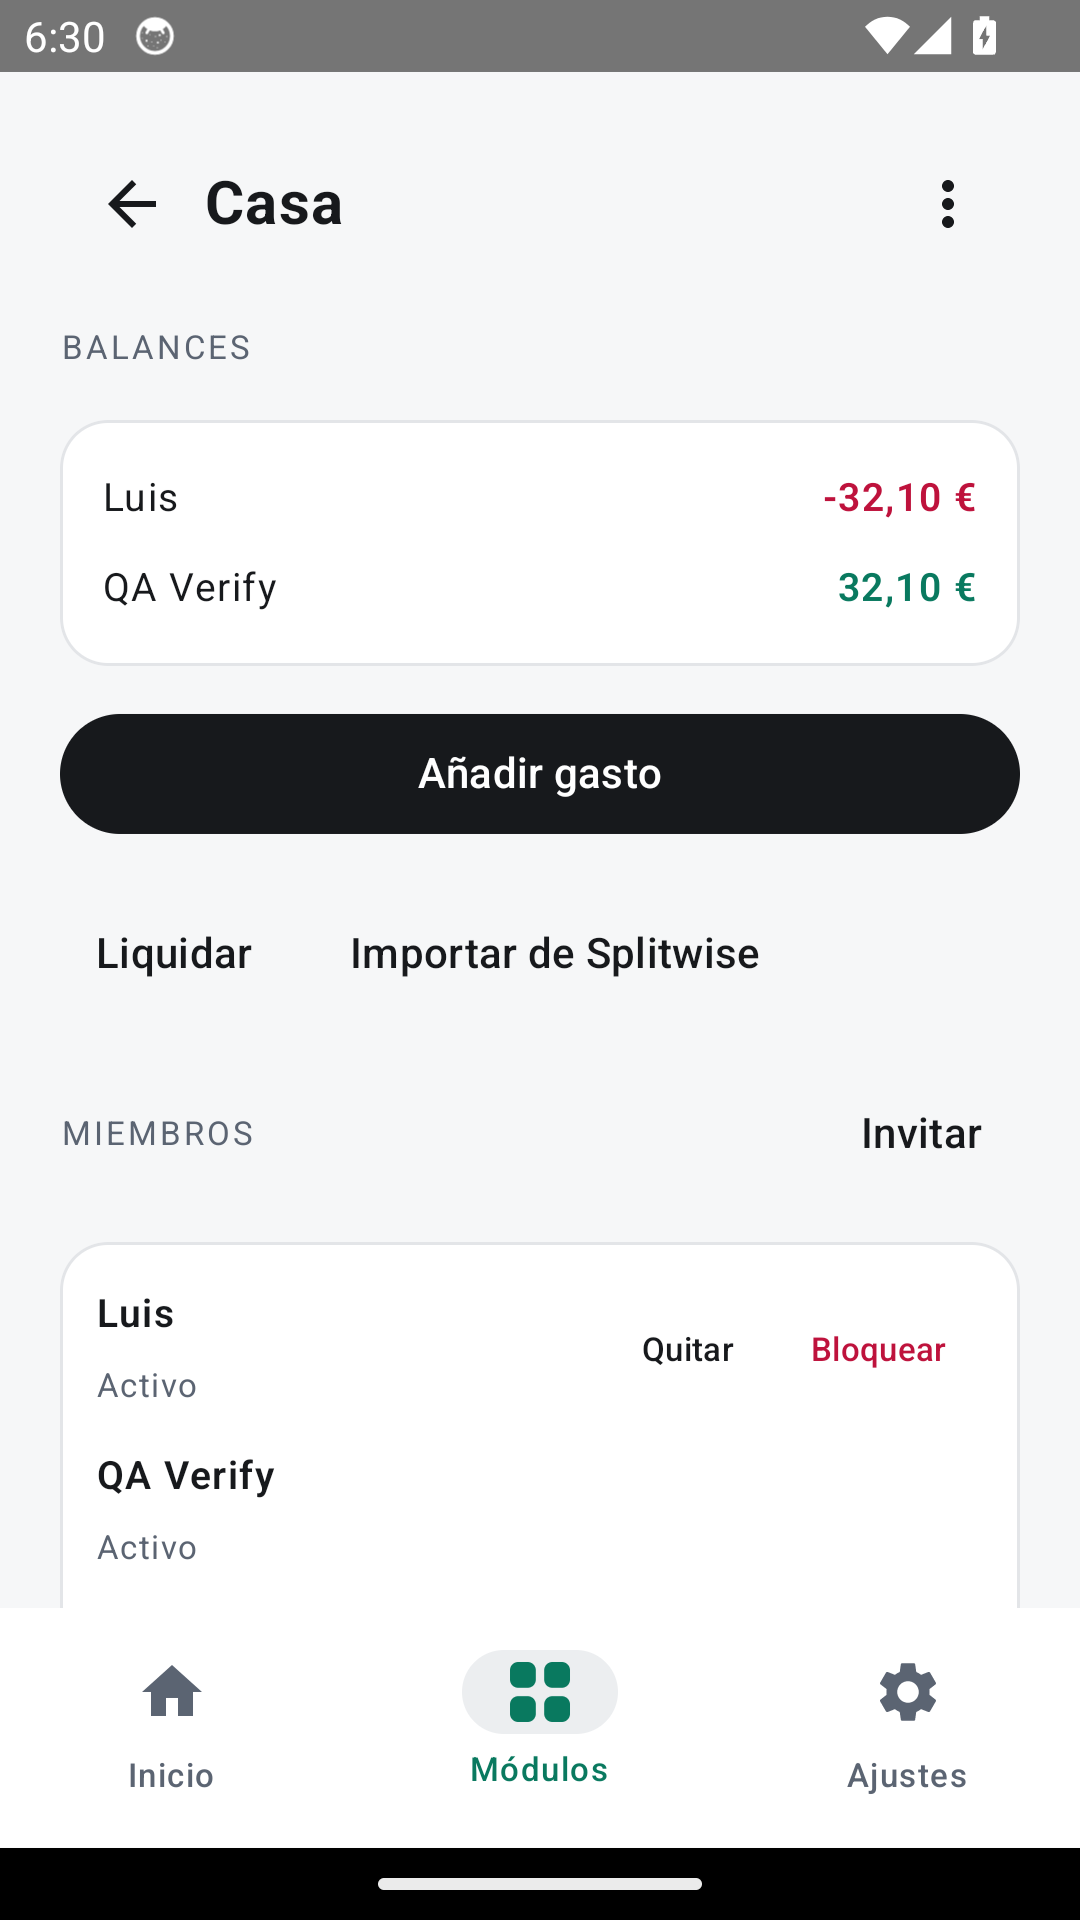
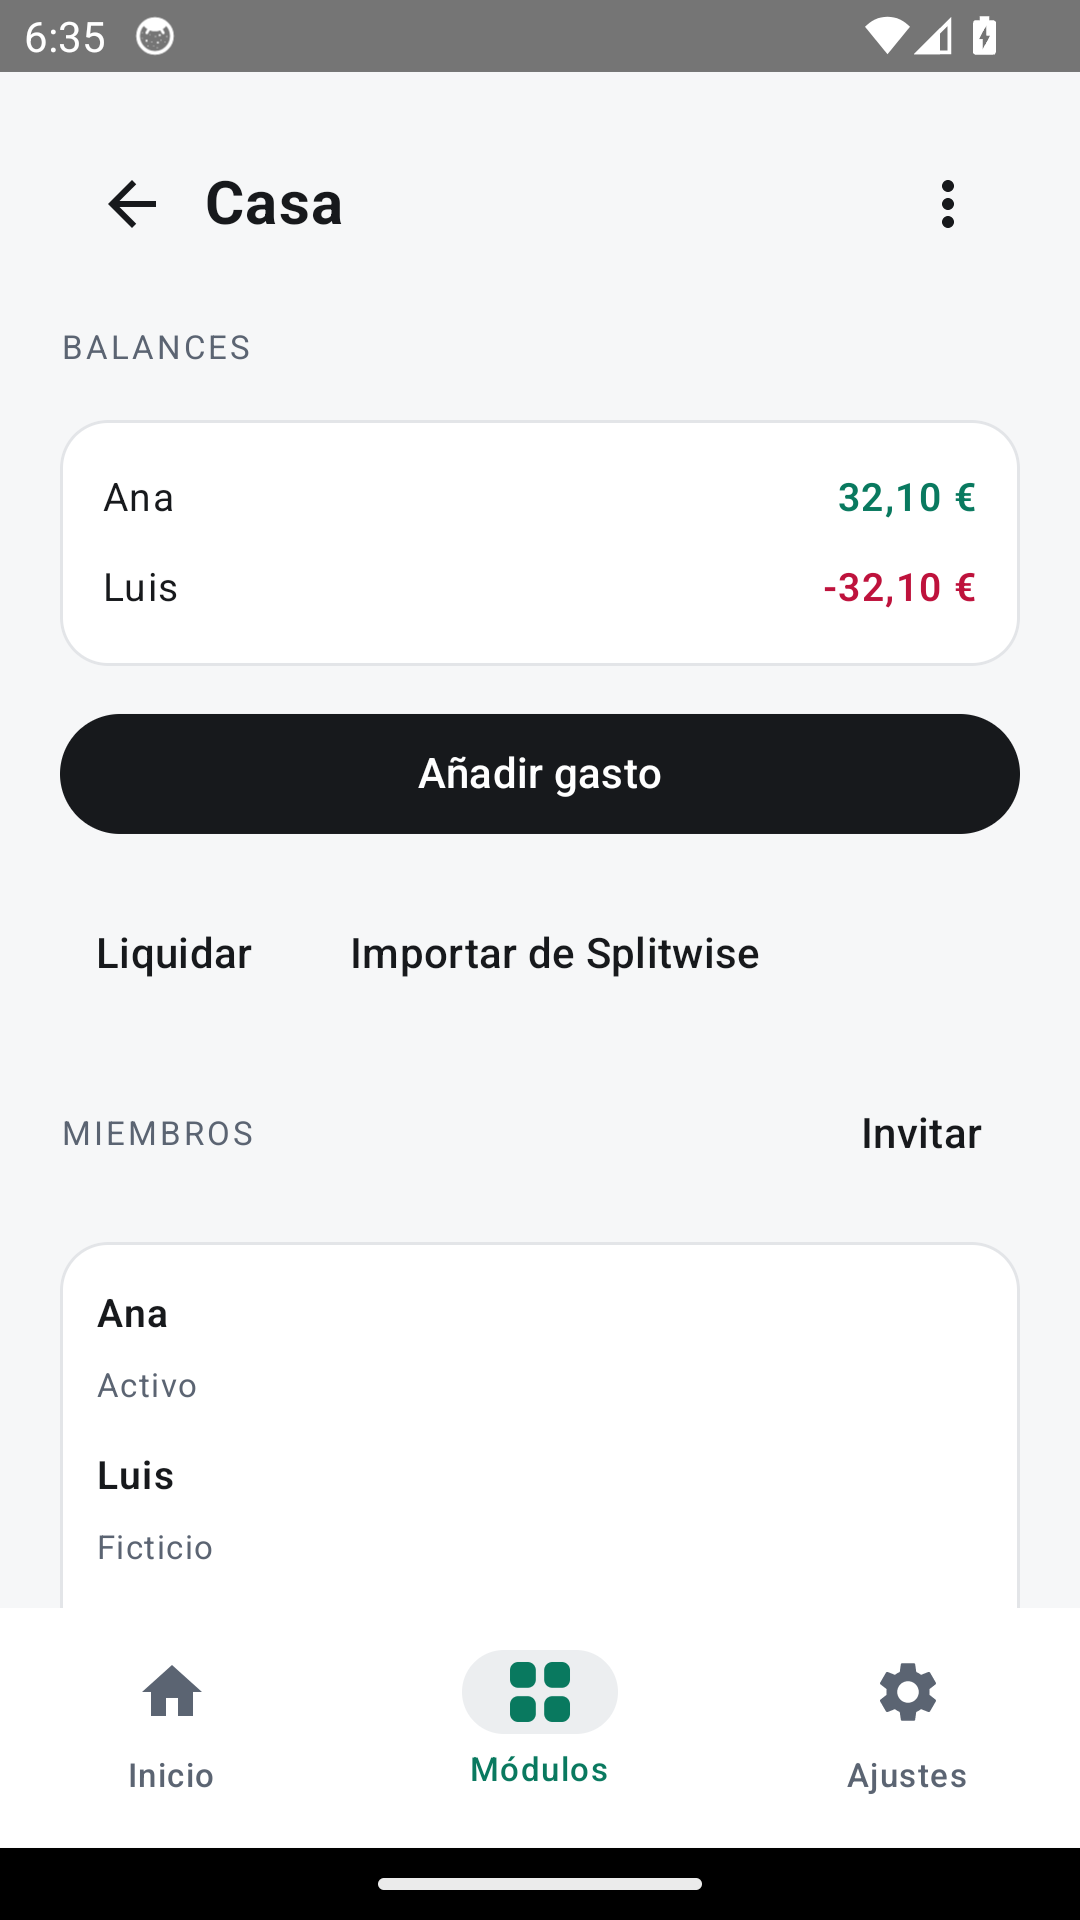
fix(android): keep forms open on failure and finalize the landing shot

diff --git a/apps/android/app/src/main/java/com/rferic/zero27apps/ui/screens/OweNoScreen.kt b/apps/android/app/src/main/java/com/rferic/zero27apps/ui/screens/OweNoScreen.kt
@@ -61,6 +61,13 @@ import java.time.LocalDate
 import kotlinx.coroutines.CoroutineScope
 import kotlinx.coroutines.launch
 
+/** Equal split: base cents plus one cent for the first `remainder` members. */
+internal fun equalShare(total: Long, chosen: Int, index: Int): Long {
+    if (chosen <= 0) return 0
+    val base = total / chosen
+    return base + if (index < (total % chosen).toInt()) 1 else 0
+}
+
 /** ISO calendar day, rendered with the profile locale; unknown values pass through. */
 internal fun formatDay(raw: String, locale: String): String =
     runCatching { java.time.LocalDate.parse(raw) }
@@ -103,12 +110,13 @@ private class OweStore(
     var error by mutableStateOf<String?>(null)
     var identities by mutableStateOf<List<OweIdentityDto>>(emptyList())
 
-    private fun run(block: suspend () -> Unit) {
+    private fun run(onSuccess: (() -> Unit)? = null, block: suspend () -> Unit) {
         scope.launch {
             loading = true
             error = null
             runCatching { block() }.onFailure { error = it.message }
             loading = false
+            if (error == null) onSuccess?.invoke()
         }
     }
 
@@ -140,7 +148,8 @@ private class OweStore(
         payer: String,
         participants: List<OweParticipantBody>,
         occurredOn: String,
-    ) = run {
+        onSuccess: () -> Unit,
+    ) = run(onSuccess) {
         api.oweCreateMovement(
             groupId,
             OweCreateMovementBody(
@@ -191,7 +200,14 @@ private class OweStore(
         groups = api.oweGroups()
     }
 
-    fun settleUp(groupId: String, from: String, to: String, amountMinor: Long, description: String) = run {
+    fun settleUp(
+        groupId: String,
+        from: String,
+        to: String,
+        amountMinor: Long,
+        description: String,
+        onSuccess: () -> Unit,
+    ) = run(onSuccess) {
         api.oweCreateMovement(
             groupId,
             OweCreateMovementBody(
@@ -367,7 +383,6 @@ fun OweNoScreen(api: ApiClient, userId: String?, locale: String, onBack: () -> U
             locale = locale,
             onDismiss = { showExpense = false },
             onSave = { description, amountMinor, payer, participants, occurredOn ->
-                showExpense = false
                 store.addExpense(
                     current.group.id,
                     description,
@@ -375,6 +390,7 @@ fun OweNoScreen(api: ApiClient, userId: String?, locale: String, onBack: () -> U
                     payer,
                     participants,
                     occurredOn,
+                    onSuccess = { showExpense = false },
                 )
             },
         )
@@ -417,8 +433,14 @@ fun OweNoScreen(api: ApiClient, userId: String?, locale: String, onBack: () -> U
             locale = locale,
             onDismiss = { showSettlement = false },
             onPay = { from, to, amount ->
-                showSettlement = false
-                store.settleUp(current.group.id, from, to, amount, strings.settle)
+                store.settleUp(
+                    current.group.id,
+                    from,
+                    to,
+                    amount,
+                    strings.settle,
+                    onSuccess = { showSettlement = false },
+                )
             },
         )
     }
@@ -492,7 +514,11 @@ private fun Invitations(
     val invited = store.groups.filter { it.role == "invited" }
     Text(strings.invitations, fontSize = 22.sp, fontWeight = FontWeight.Bold)
     if (invited.isEmpty()) {
-        Text(strings.noInvitations, fontSize = 13.sp, color = palette.mutedForeground)
+        if (store.error == null) {
+            Text(strings.noInvitations, fontSize = 13.sp, color = palette.mutedForeground)
+        } else {
+            TextButton(onClick = { store.loadGroups() }) { Text(strings.tryAgain) }
+        }
     }
     for (group in invited) {
         Row(
@@ -550,17 +576,18 @@ private fun Members(
                 Column(Modifier.weight(1f)) {
                     Text(member.displayName, fontSize = 13.sp, fontWeight = FontWeight.SemiBold)
                     Text(
-                        when (member.state) {
-                            "invited" -> strings.stateInvited
-                            "left" -> strings.stateLeft
-                            "removed" -> strings.stateRemoved
+                        when {
+                            member.userId == null && member.state == "active" -> strings.fictitious
+                            member.state == "invited" -> strings.stateInvited
+                            member.state == "left" -> strings.stateLeft
+                            member.state == "removed" -> strings.stateRemoved
                             else -> strings.stateActive
                         },
                         fontSize = 11.sp,
                         color = palette.mutedForeground,
                     )
                 }
-                if (creator && member.userId != store.userId && member.state == "active") {
+                if (creator && member.userId != null && member.userId != store.userId && member.state == "active") {
                     val act: (String) -> Unit = { action ->
                         if ((store.balances.firstOrNull { it.memberId == member.id }?.amountMinor ?: 0L) != 0L) {
                             pending = member.id to action
@@ -798,6 +825,7 @@ private fun ExpenseDialog(
     val minor = parseMinor(amount)
     val total = minor ?: 0
     val exactSum = selected.sumOf { parseMinor(exactAmounts[it] ?: "") ?: 0L }
+    val dateValid = runCatching { LocalDate.parse(occurredOn) }.isSuccess
     val exactReady = !exact || (selected.isNotEmpty() && exactSum == total)
     val participants = if (exact) {
         selected.map { OweParticipantBody(it, parseMinor(exactAmounts[it] ?: "") ?: 0L) }
@@ -862,11 +890,8 @@ private fun ExpenseDialog(
                         Text(member.displayName, fontSize = 13.sp, modifier = Modifier.weight(1f))
                         if (selected.contains(member.id) && selected.isNotEmpty() && total > 0) {
                             if (!exact) {
-                                val chosen = active.count { selected.contains(it.id) }
-                                val index = active.indexOf(member)
-                                val base = total / chosen
-                                val remainder = (total % chosen).toInt()
-                                val share = base + if (index < remainder) 1 else 0
+                                val chosenList = active.filter { selected.contains(it.id) }
+                                val share = equalShare(total, chosenList.size, chosenList.indexOf(member))
                                 Text(formatMinor(share, currency, locale), fontSize = 12.sp)
                             }
                         }
@@ -915,7 +940,7 @@ private fun ExpenseDialog(
         confirmButton = {
             TextButton(
                 enabled = description.isNotBlank() && minor != null && payer != null &&
-                    selected.isNotEmpty() && exactReady,
+                    selected.isNotEmpty() && exactReady && dateValid,
                 onClick = {
                     onSave(description.trim(), minor!!, payer!!, participants, occurredOn)
                 },

diff --git a/apps/android/app/src/test/java/com/rferic/zero27apps/ui/screens/OweFormatTest.kt b/apps/android/app/src/test/java/com/rferic/zero27apps/ui/screens/OweFormatTest.kt
@@ -15,6 +15,25 @@ class OweFormatTest {
     }
 
     @Test
+    fun `parseMinor accepts comma and dot, rejects junk`() {
+        assertEquals(1234L, parseMinor("12,34"))
+        assertEquals(1234L, parseMinor("12.34"))
+        assertEquals(1200L, parseMinor("12"))
+        assertEquals(null, parseMinor("12,345"))
+        assertEquals(null, parseMinor("abc"))
+        assertEquals(null, parseMinor("0"))
+    }
+
+    @Test
+    fun `equal shares add up to the total`() {
+        val shares = (0 until 3).map { equalShare(1000, 3, it) }
+        assertEquals(1000L, shares.sum())
+        assertEquals(334L, shares[0])
+        val subset = (0 until 2).map { equalShare(1000, 2, it) }
+        assertEquals(1000L, subset.sum())
+    }
+
+    @Test
     fun `calendar days render in the profile locale`() {
         val formatted = formatDay("2026-11-14", "es")
         assertNotEquals("2026-11-14", formatted)

diff --git a/apps/android/app/src/main/java/com/rferic/zero27apps/ui/screens/OweImportScreen.kt b/apps/android/app/src/main/java/com/rferic/zero27apps/ui/screens/OweImportScreen.kt
@@ -136,7 +136,7 @@ fun OweImportScreen(api: ApiClient, groupId: String, onClose: () -> Unit) {
             Summary(strings.importResult, listOf(
                 "${strings.created}: ${result!!.created}",
                 "${strings.skipped}: ${result!!.skippedDuplicates}",
-                "${strings.duplicates}: ${result!!.errors}",
+                "${strings.errorsLabel}: ${result!!.errors}",
                 "${strings.categoriesLabel}: ${result!!.categories}",
             ), palette.surface, palette.border, palette.mutedForeground)
             Button(onClick = onClose, modifier = Modifier.fillMaxWidth()) { Text(strings.done) }
